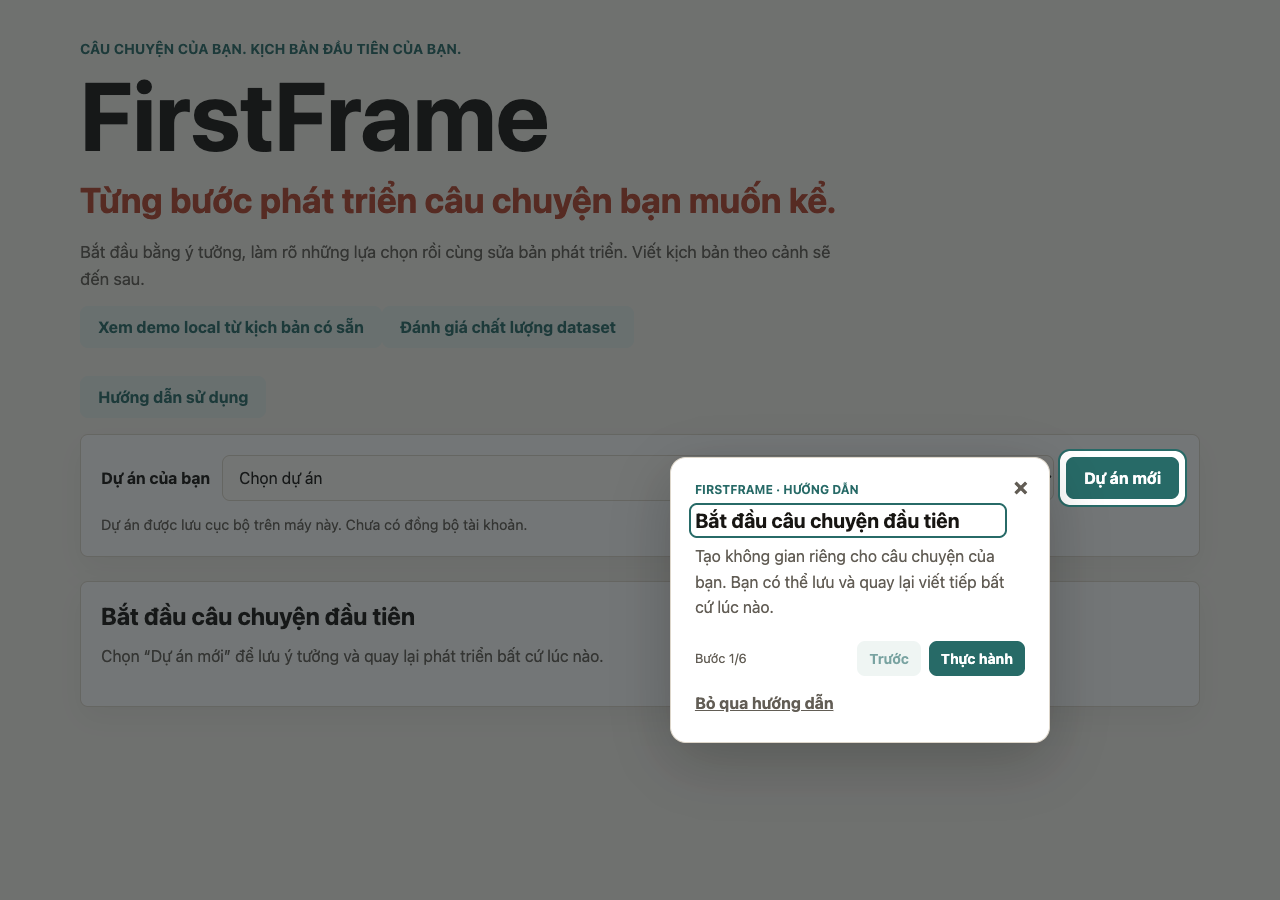
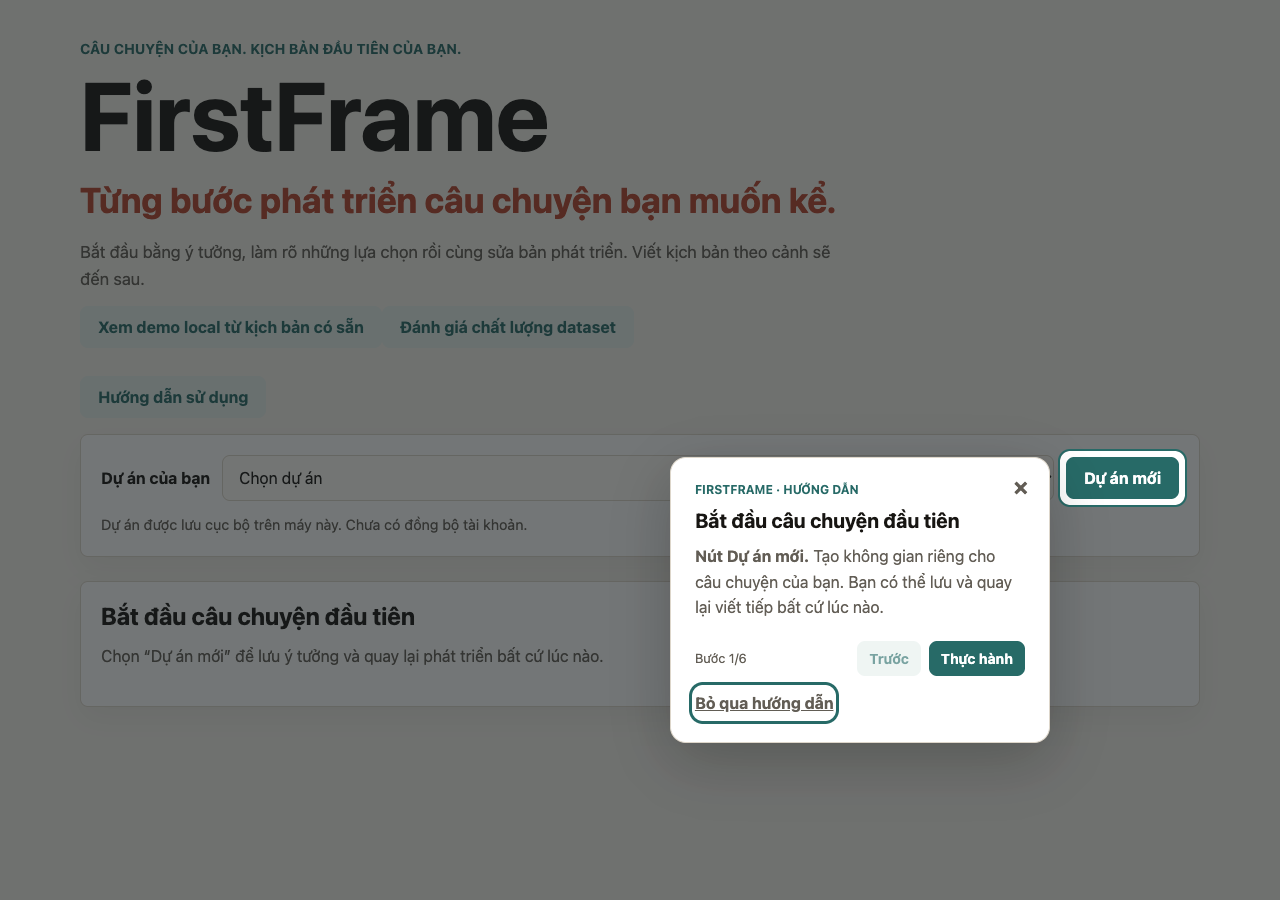
fix: align tour keyboard and fallback behavior with plan

Changed region(s): [[0.5312, 0.5911, 0.7812, 0.6844], [0.5312, 0.7467, 0.6562, 0.8089]]

diff --git a/frontend/app/OnboardingTour.tsx b/frontend/app/OnboardingTour.tsx
@@ -72,6 +72,11 @@ const titles: Record<TourStep, string> = {
   "new-project": "Bắt đầu câu chuyện đầu tiên", idea: "Câu chuyện bạn muốn kể", language: "Cùng làm rõ ý tưởng",
   choices: "Những lựa chọn thuộc về bạn", draft: "Viết tiếp bằng giọng của bạn", save: "Lưu lại để tiếp tục",
 };
+const targetLabels: Record<TourStep, string> = {
+  "new-project": "Nút Dự án mới", idea: "Ô Ý tưởng, kỷ niệm hoặc tình huống của bạn",
+  language: "Ngôn ngữ đầu ra", choices: "Những lựa chọn của bạn",
+  draft: "Bản phát triển đang làm việc", save: "Thanh lưu thay đổi",
+};
 function copy(step: TourStep, p: Props) {
   switch (step) {
     case "new-project": return p.context.projectId
@@ -95,17 +100,23 @@ export function OnboardingTour(props: Props) {
   const { state } = tour;
   const record = state.record;
   const focusFrame = useRef(0);
+  const opener = useRef<HTMLElement | null>(null);
   useEffect(() => () => cancelAnimationFrame(focusFrame.current), []);
-  const focusAfter = (selector: string) => {
+  const focusAfter = (destination: string | HTMLElement | null) => {
     cancelAnimationFrame(focusFrame.current);
     focusFrame.current = requestAnimationFrame(() => {
-      const element = document.querySelector<HTMLElement>(selector);
-      const target = element?.isConnected && !element.matches(":disabled") ? element : document.getElementById("workspace-title");
+      const element = typeof destination === "string" ? document.querySelector<HTMLElement>(destination) : destination;
+      const target = element?.isConnected && element !== document.body && element.getClientRects().length
+        && !element.matches(":disabled") ? element : document.getElementById("workspace-title");
       target?.scrollIntoView({ block: "center", behavior: "auto" });
       target?.focus({ preventScroll: true });
     });
   };
-  const dismiss = () => { tour.dismiss(); focusAfter("#tour-help"); };
+  const open = (button: HTMLElement, resume = false) => { opener.current = button; tour.open(resume); };
+  const dismiss = () => {
+    const destination = record?.status === "active" ? opener.current : document.activeElement as HTMLElement | null;
+    tour.dismiss(); focusAfter(destination);
+  };
   const practice = () => {
     if (!record) return;
     const step = record.stepId;
@@ -124,20 +135,28 @@ export function OnboardingTour(props: Props) {
   const next = record ? nextStep(record.stepId, context) : null;
   const previous = record ? previousStep(record.stepId, context) : null;
   const active = record?.status === "active" && ready && !busy;
+  useEffect(() => {
+    if (!welcome && !resumable) return;
+    const escape = (event: KeyboardEvent) => {
+      if (event.key !== "Escape" || event.defaultPrevented || event.isComposing || document.querySelector("dialog[open]")) return;
+      event.preventDefault(); dismiss();
+    };
+    document.addEventListener("keydown", escape);
+    return () => document.removeEventListener("keydown", escape);
+  }, [welcome, resumable, dismiss]);
 
   return <>
     <button id="tour-help" className="secondary tour-help" disabled={!ready || busy || !state.initialized}
-      onClick={() => tour.open()}>Hướng dẫn sử dụng</button>
-    {welcome && <section className="tour-notice" aria-label="Chào mừng đến với FirstFrame"
-      onKeyDown={event => { if (event.key === "Escape") { event.preventDefault(); dismiss(); } }}>
+      onClick={event => open(event.currentTarget)}>Hướng dẫn sử dụng</button>
+    {welcome && <section className="tour-notice" aria-label="Chào mừng đến với FirstFrame">
       <div><strong>Bắt đầu cùng FirstFrame</strong><p>Xem hướng dẫn ngắn, rồi thực hành từng bước với câu chuyện của bạn.</p></div>
-      <button onClick={() => tour.open()}>Bắt đầu hướng dẫn</button>
+      <button onClick={event => open(event.currentTarget)}>Bắt đầu hướng dẫn</button>
       <button className="secondary" onClick={dismiss}>Bỏ qua</button>
     </section>}
     {resumable && <section className="tour-notice" aria-label="Tiến độ hướng dẫn">
       <p role="status">{state.hint ?? (record.status === "paused" ? "Hướng dẫn đang tạm dừng. Bạn có thể tiếp tục khi sẵn sàng."
         : "Bạn đang thực hành. Tiếp tục hướng dẫn khi sẵn sàng, hoặc bỏ qua để tự khám phá.")}</p>
-      <button disabled={!ready || busy || !continuation(state, context)} onClick={() => tour.open(true)}>Tiếp tục hướng dẫn</button>
+      <button disabled={!ready || busy || !continuation(state, context)} onClick={event => open(event.currentTarget, true)}>Tiếp tục hướng dẫn</button>
       <button className="secondary" onClick={dismiss}>Bỏ qua</button>
     </section>}
     {active && createPortal(<TourDialog step={record.stepId} title={titles[record.stepId]} description={copy(record.stepId, props)}
@@ -236,7 +255,7 @@ function TourDialog({ step, title, description, onMissing, onDismiss, children }
       <button className="tour-close" aria-label="Đóng hướng dẫn" onClick={onDismiss}>×</button>
       <p className="eyebrow">FirstFrame · Hướng dẫn</p>
       <h2 id="tour-title" tabIndex={-1}>{title}</h2>
-      <p id="tour-description">{description}</p>
+      <p id="tour-description"><strong>{targetLabels[step]}.</strong> {description}</p>
       {children}
     </div>
   </dialog>;

diff --git a/docs/testing/new-user-tour.md b/docs/testing/new-user-tour.md
@@ -21,7 +21,7 @@ và [plan đã review](../plans/new-user-tour.md), từ `dev` sau merge PR #23.
 
 ## Kết quả kiểm tra
 
-Ngày 21/10/2026: tất cả bộ kiểm tra dưới đây đã pass trên macOS, với Chrome
+Ngày 22/10/2026, sau sửa lỗi review: tất cả bộ kiểm tra dưới đây đã pass trên macOS, với Chrome
 headless chạy frontend production. Dữ liệu được tổng hợp; không dùng kho dự
 án thật hoặc gọi provider AI. Ảnh cuối tài liệu lấy từ lượt chạy production.
 
@@ -38,11 +38,48 @@ headless chạy frontend production. Dữ liệu được tổng hợp; không d
   hỏng/bị chặn, tải workspace lỗi và mất anchor trong lúc thẻ đang mở.
 - Browser: Tab/Shift+Tab/Escape, focus sau thực hành/hoàn tất, ngăn bấm xuyên
   spotlight, desktop 1280×900, mobile 390×844 và viewport thấp 320×260.
+- Browser regression review: Escape từ lời mời, ô đang nhập, thanh thực hành
+  lúc AI đang chạy và trạng thái paused; không mất buffer hoặc bật lại tour
+  khi kết quả đến muộn. Đóng thẻ trả về nút mở nếu còn tồn tại, nếu không về
+  tiêu đề workspace. Thẻ vẫn nêu tên vùng đích khi spotlight bị ẩn.
 
 Chưa kiểm chứng bằng trình đọc màn hình thật, bàn phím ảo trên thiết bị thật
 hoặc Safari/Firefox. Chưa thực hiện pilot 3–5 người mới; PR chờ review UX và
 issue #22 vẫn mở cho nghiệm thu. Không dùng kiểm thử tour để kết luận chất
 lượng AI hoặc tốc độ model.
+
+## Đối chiếu plan trong lượt review PR #24
+
+Review theo phạm vi MVP local một người dùng, có thể mở nhiều tab. Đã đọc
+plan #22, reducer, component/dialog, các điểm gọi từ workspace, API lưu/stream
+và kiểm thử liên quan. Ba lỗi dưới đây được tái hiện trên commit `8eb7ac9`
+trước khi sửa, đều ở mức P2:
+
+1. **Escape không dừng tour trong lúc thực hành/paused.** Handler cũ chỉ ở
+   lời mời và dialog; focus ở ô nhập hoặc thanh tiếp tục vẫn giữ `waiting`.
+   Đã bổ sung Escape cho lời mời/thanh tiếp tục đang hiện, dọn listener khi
+   đóng, giữ focus ở ô nhập và không hủy request thật đang chạy.
+2. **Đóng thẻ luôn trả focus về nút trợ giúp.** Mở từ lời mời hoặc Tiếp tục
+   làm nút mở biến mất; plan yêu cầu fallback tiêu đề workspace. Đã nhớ nút
+   mở và kiểm tra còn kết nối, hiển thị, enabled trước khi trả focus.
+3. **Mất tên vùng đích khi viewport thấp.** Khi spotlight bị ẩn, tiêu đề
+   “Bắt đầu câu chuyện đầu tiên” không cho biết nút thật là “Dự án mới”.
+   Đã ghi tên control trong mô tả ở mọi kích thước, giúp đọc được cả khi
+   thiếu spotlight và tránh đổi chiều cao thẻ theo trạng thái spotlight.
+
+| Nhóm yêu cầu của #22 | Kết quả review |
+| --- | --- |
+| Mời người mới sau tải thành công; mở thủ công với dự án cũ | Khớp; kiểm tra workspace trống/có dữ liệu/tải lỗi |
+| Sáu bước, anchor có điều kiện, brief mới ưu tiên hơn draft cũ | Khớp; state và browser checks |
+| Thực hành 2/5 không cần save; 1/3/4 chờ đúng kết quả | Khớp; token phiên/request, lỗi PUT/AI, kết quả lặp/đến muộn |
+| Reload, đổi dự án, storage hỏng và cross-tab dismissed/completed | Khớp; state/browser checks, không tự phát lại request |
+| Không tự ghi dự án/gọi AI, giữ input và lỗi hiện có | Khớp qua call-site review, so sánh buffer và theo dõi request |
+| Escape, trả focus, tên vùng đích khi bỏ spotlight | Đã sửa ba lỗi trên; browser regression pass |
+| Responsive, accessibility và pilot | Keyboard/viewport mô phỏng pass; screen reader, bàn phím ảo thật, Safari/Firefox và pilot còn chờ |
+
+Không còn lỗi chặn merge được xác nhận trong phạm vi kiểm tra này. Chưa
+kết luận đạt toàn bộ nghiệm thu của issue #22 vì các kiểm tra thủ công nêu
+trên chưa thực hiện. PR vẫn mở để người dùng quyết định merge.
 
 ## Chạy lại
 
